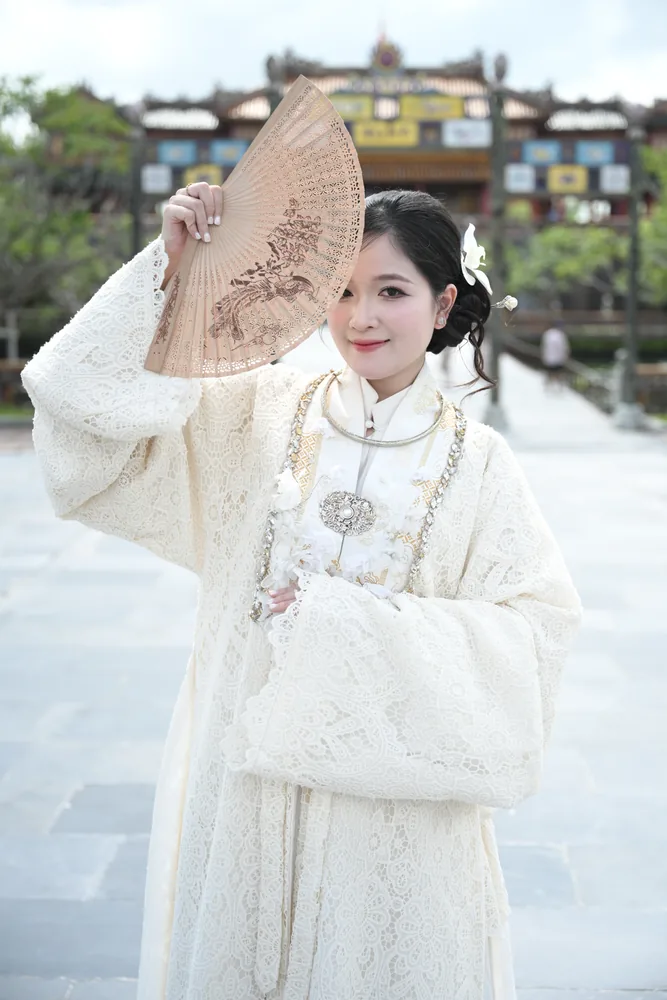
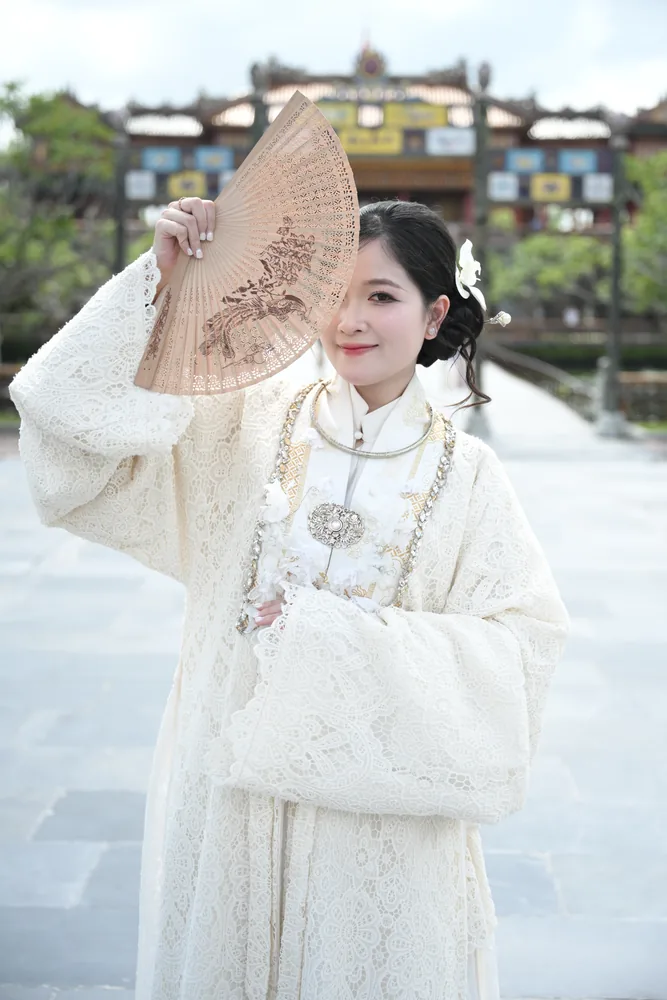
Deploy optimized wedding images only

diff --git a/flip.py b/flip.py
@@ -1,9 +1,9 @@
 from PIL import Image, ImageOps
 
-image = Image.open("assets/son-1.jpg")
+image = Image.open("assets/son-2.jpg")
 
 # Lật ảnh trái ↔ phải
 flipped = ImageOps.mirror(image)
 
 # Lưu thành ảnh mới
-flipped.save("assets/son-1-flipped.jpg", quality=95)
+flipped.save("assets/son-2-flipped.jpg", quality=95)
